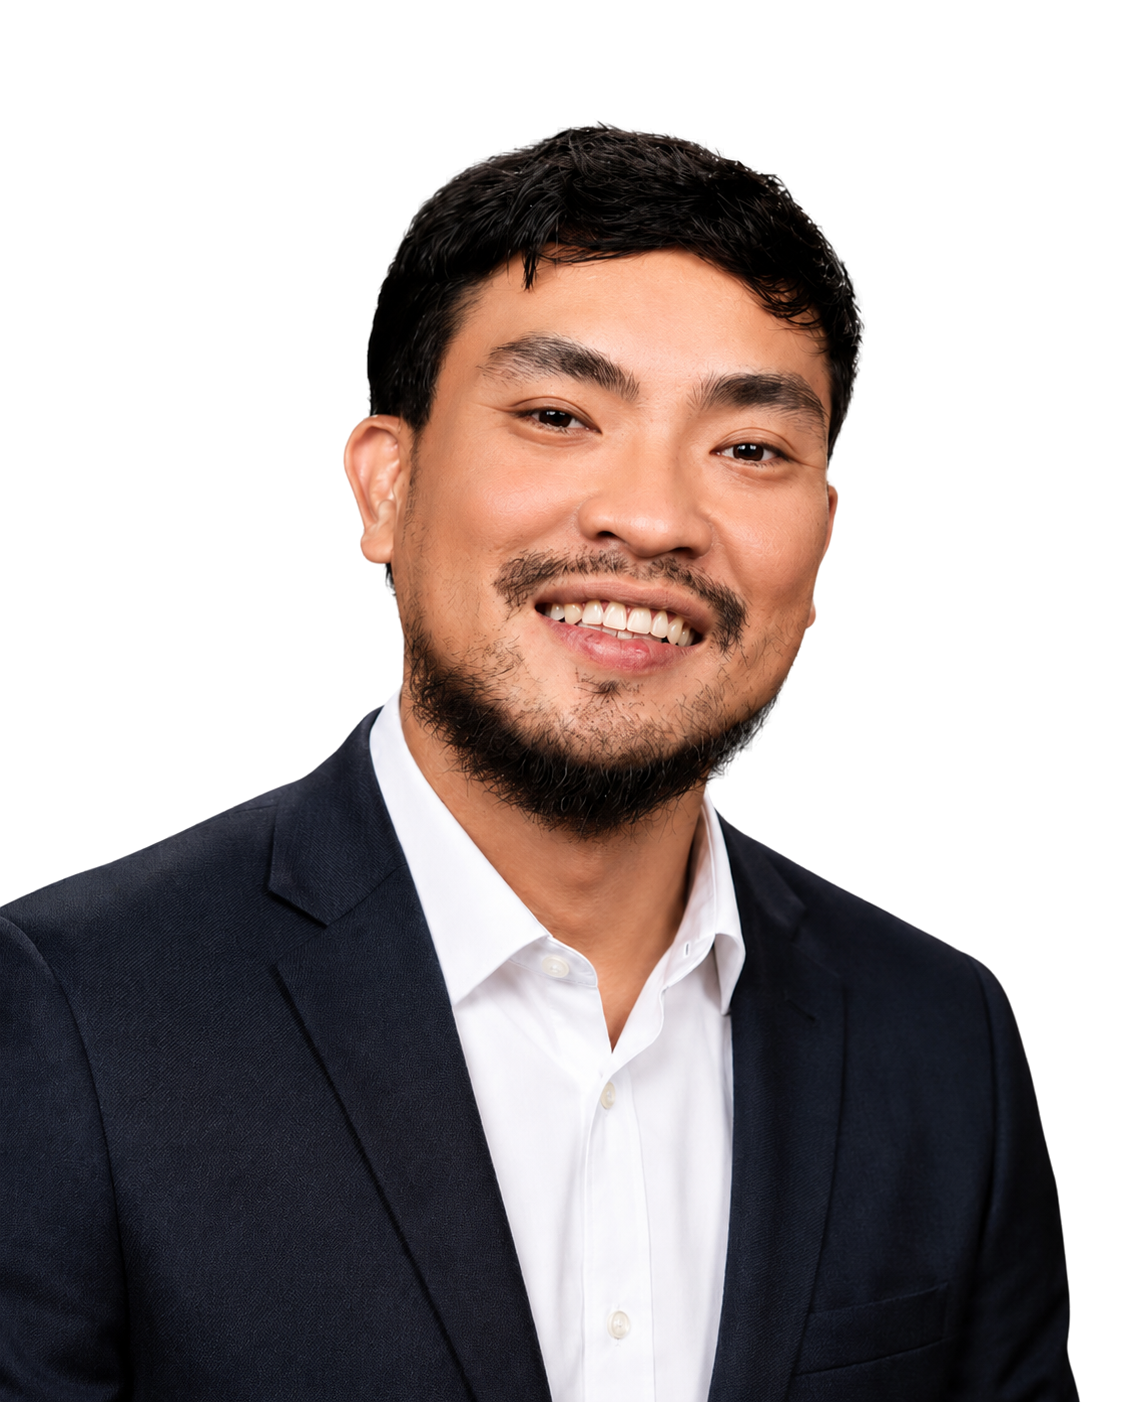
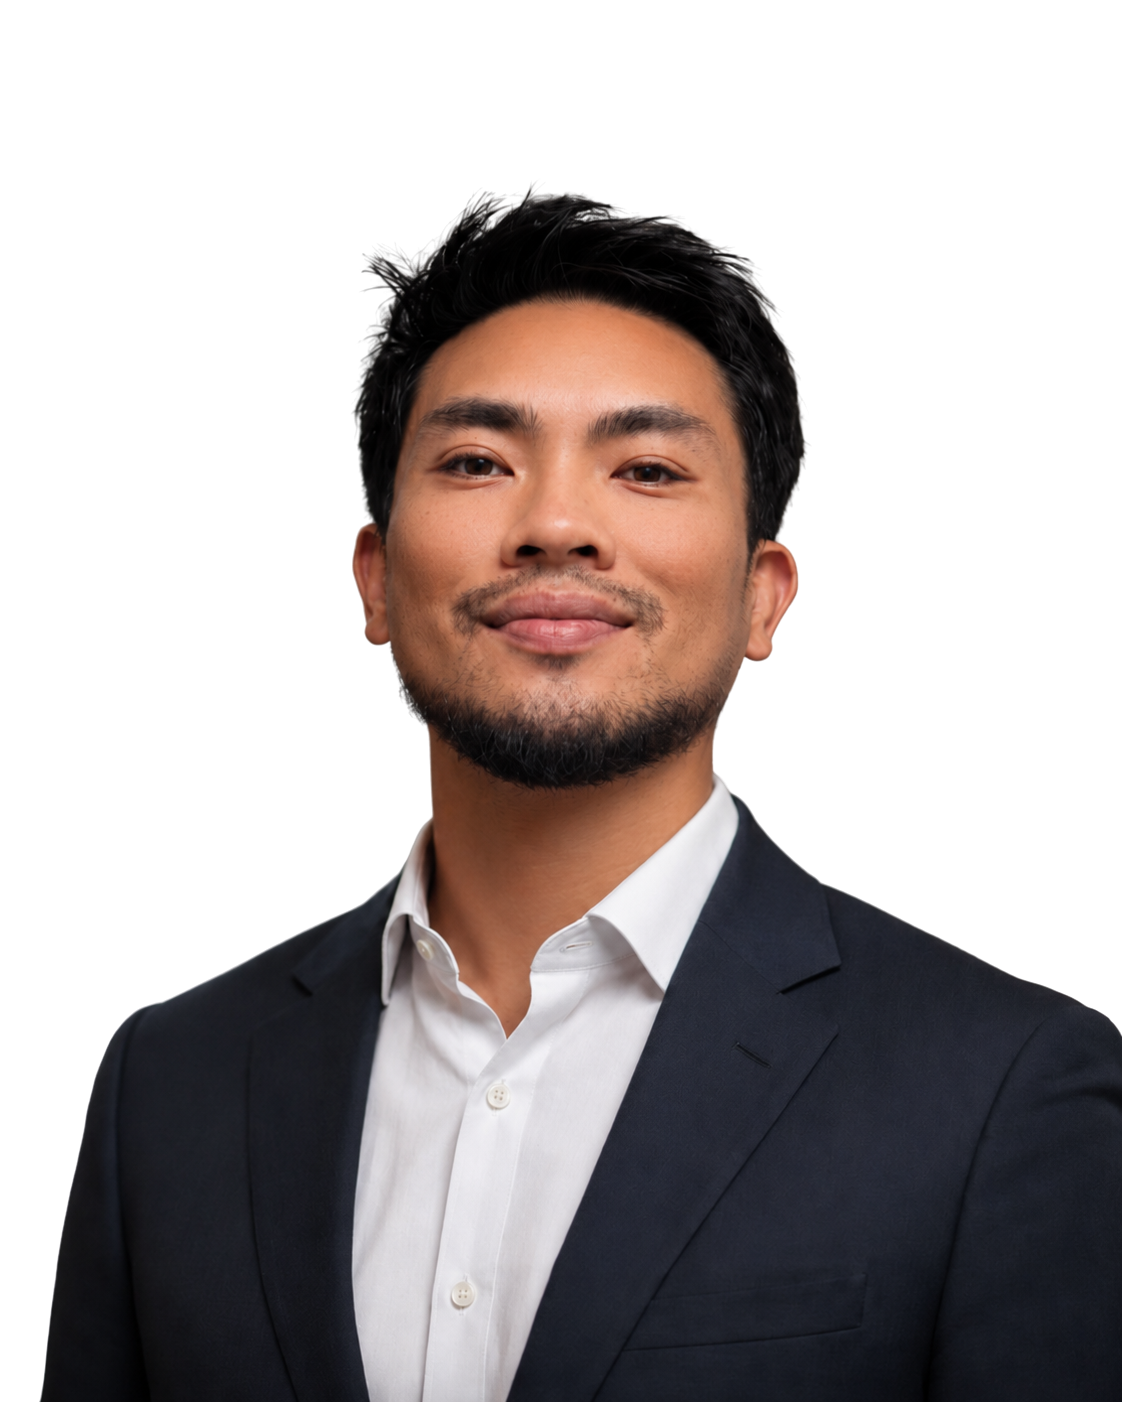
Update Kyle leadership portrait

diff --git a/src/content/leadership.ts b/src/content/leadership.ts
@@ -32,8 +32,8 @@ export const leadership: LeadershipMember[] = [
   {
     name: "Kyle Lamban",
     role: "Vice President & Chief Operations Officer",
-    instagram: "kyleatsparkcreativesincdotorg",
-    image: "/images/about/kyle-lamban.png?v=3",
+    instagram: "84kylelamban",
+    image: "/images/about/kyle-lamban.png?v=4",
     imageAlt: "Portrait of Kyle Lamban, Vice President and Chief Operations Officer.",
   },
   {